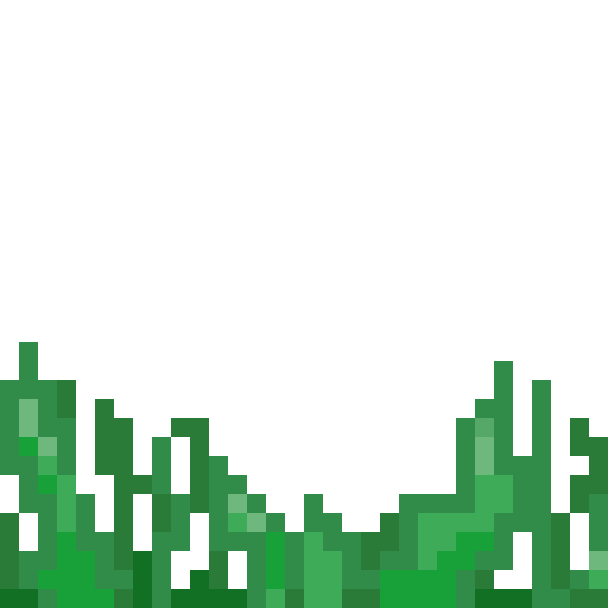
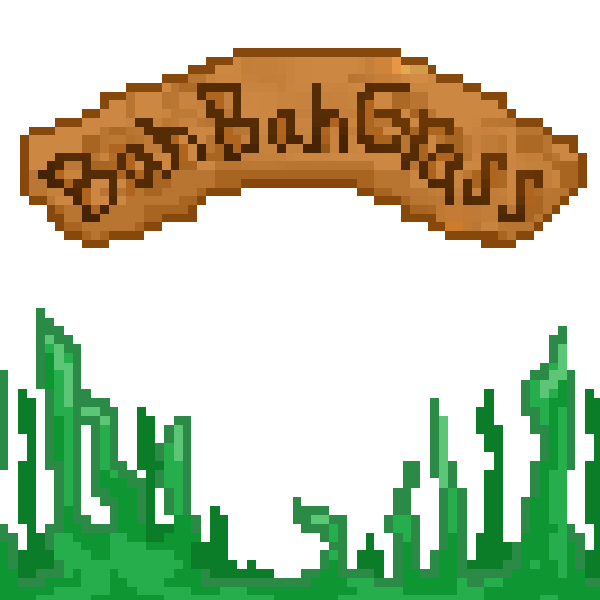
improved designs

diff --git a/bah-bah-grass/index.js b/bah-bah-grass/index.js
@@ -35,7 +35,7 @@ function preload() {
 
     shared_farmer = partyLoadShared("shared_farmer", {
         farmerTimer : 10,
-        posX: 19,
+        posX: 3,
         posY: 7,
         madeIt: false
     });
@@ -55,10 +55,12 @@ function preload() {
     // other assets
     grass = loadImage("./assets/grass.png");
     logo = loadImage("./assets/bahbahgrass_logo.png");
+    grass_border = loadImage("./assets/fence.png");
     grass_start = loadImage("./assets/grass_starter.png");
     grass_instruct = loadImage("./assets/grass_instruction.png")
     farmer = loadImage("./assets/farmer.png");
     nom = loadSound("./assets/nom_noise.wav");
+    // start_b = loadImage("./assets/start_button.png");
 }
 
 
@@ -75,7 +77,7 @@ function setup() {
    
     me.sheep = { posX: 0, posY: -20 };
 
-    
+    button = createImg("./assets/start_button.png" ); 
 }
 
 function draw() {
@@ -103,11 +105,12 @@ function startingScreen() {
     textSize(35);
     pop();
     push();
-    image(logo, 43, 100, 520, 260);
     image(grass_start, 0, 0, 600, 600);
     textSize(20);
     textAlign(CENTER, CENTER);
-    testing = text("Click anywhere to continue", 300, 350);
+    text("Click 'start' to continue", 300, 350);
+    button.position(250, 390);
+    button.mousePressed(changeState);
     pop();
 }
 
@@ -115,7 +118,7 @@ function instructScreen() {
     createCanvas(600, 600);
     background("#99ccff");
     fill('#703e14');
-    image(logo, 220, 19, 160, 80);
+    image(logo, 220, 10, 160, 80);
     image(grass_instruct, 0, 0, 600, 600);
     push();
     textSize(35);
@@ -123,26 +126,30 @@ function instructScreen() {
     textStyle(BOLD);
     text("Instructions", 300, 150);
     pop();
-    textSize(25);
+    textSize(20);
     textAlign(CENTER, CENTER);
     textStyle(NORMAL);
-    text("Eat all grass squares with", 300, 200);
-    text("your teammates before", 300, 240);
-    text("the time runs out.", 300, 280);
+    text("Eat all grass squares with your teammate", 300, 200);
+    text("before the time runs out.", 300, 240);
+    text("Watch out for the farmer replanting grass!", 300, 290);
+    text("Get to the seed before it grows back", 300, 330);
     push();
     pop();
     push();
     textSize(20);
     textAlign(CENTER, CENTER);
-    text("Click anywhere to continue", 300, 340);
+    button.position(250, 390);
+    button.mousePressed(changeState);
     pop();
 
 }
 
 function gameOn() {
+    button.hide();
     createCanvas(600, 600);
     background('beige');
-    image(logo, 220, 19, 160, 80);
+    image(logo, 220, 10, 160, 80);
+    image(grass_border, -3.5, 20, 580, 586);
     translate(90,100);
     assignPlayers();
     drawGrid();
@@ -359,7 +366,7 @@ function replantingGrass() {
 
     if ((shared_time.gameTimer <= 85 && shared_time.gameTimer > 75) ||
         (shared_time.gameTimer <= 65 && shared_time.gameTimer > 55)) {
-        image(farmer, 400, 0, 50, 50);
+        image(farmer, 428, 0, 50, 50);
         shared.grid[shared_farmer.posX][shared_farmer.posY] = "replanted";
         if(partyIsHost()) {
             if (frameCount % 60 === 0) {
@@ -386,18 +393,20 @@ function replantingGrass() {
             shared.grid[shared_farmer.posX][shared_farmer.posY] = "unplanted";
         }
 
-        text(shared_farmer.farmerTimer, 425,70);
+        // text(shared_farmer.farmerTimer, 425,70);
+        text(shared_farmer.farmerTimer, 453,70);
     } else {
         partySetShared(shared_farmer, {
             farmerTimer : 10,
-            posX: 6,
-            posY: 18,
+            posX: 3,
+            posY: 7,
             madeIt: false
         });
     }
 }
 
 function drawUI() {
+    translate(0,28);
     textAlign(CENTER, CENTER);
     fill("black");
     textSize(15);
@@ -459,7 +468,7 @@ function pointInRect(p, r) {
     );
   }
 
-function mousePressed() {
+function changeState() {
     if (shared_state.gameMode == 0) {
         shared_state.gameMode = 1;
     } else if (shared_state.gameMode == 1) {
